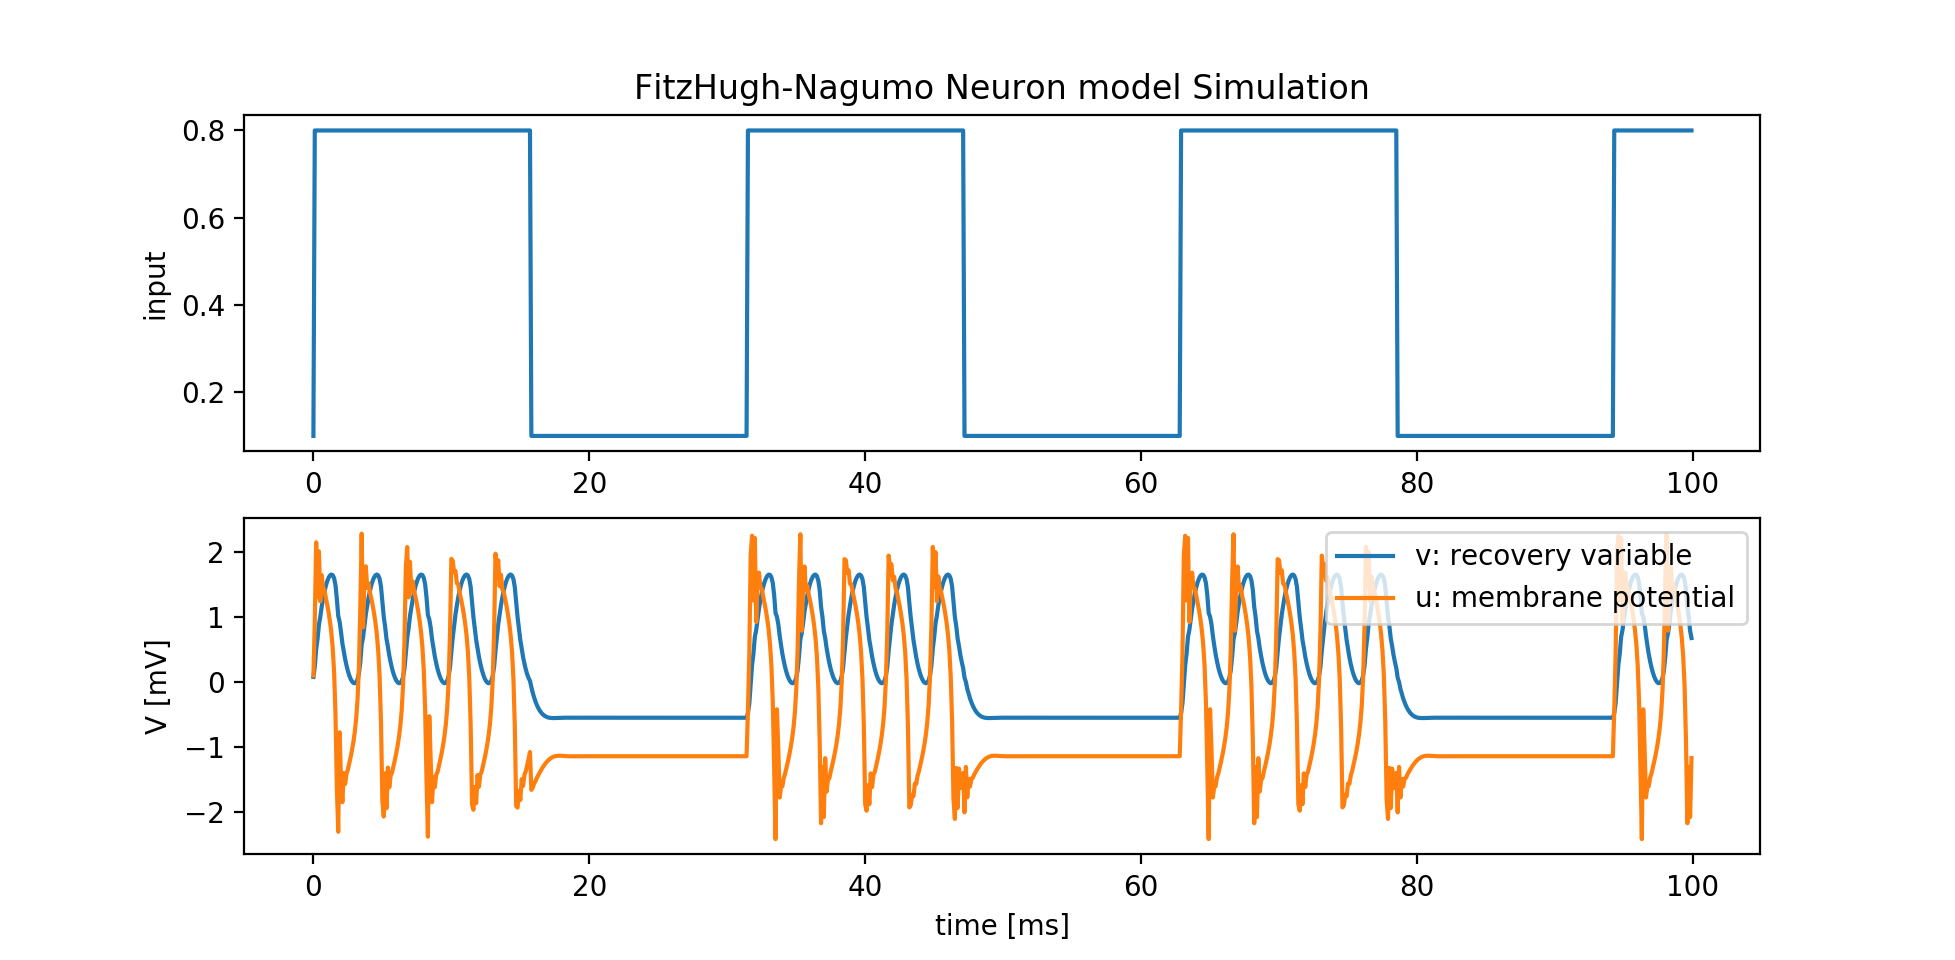
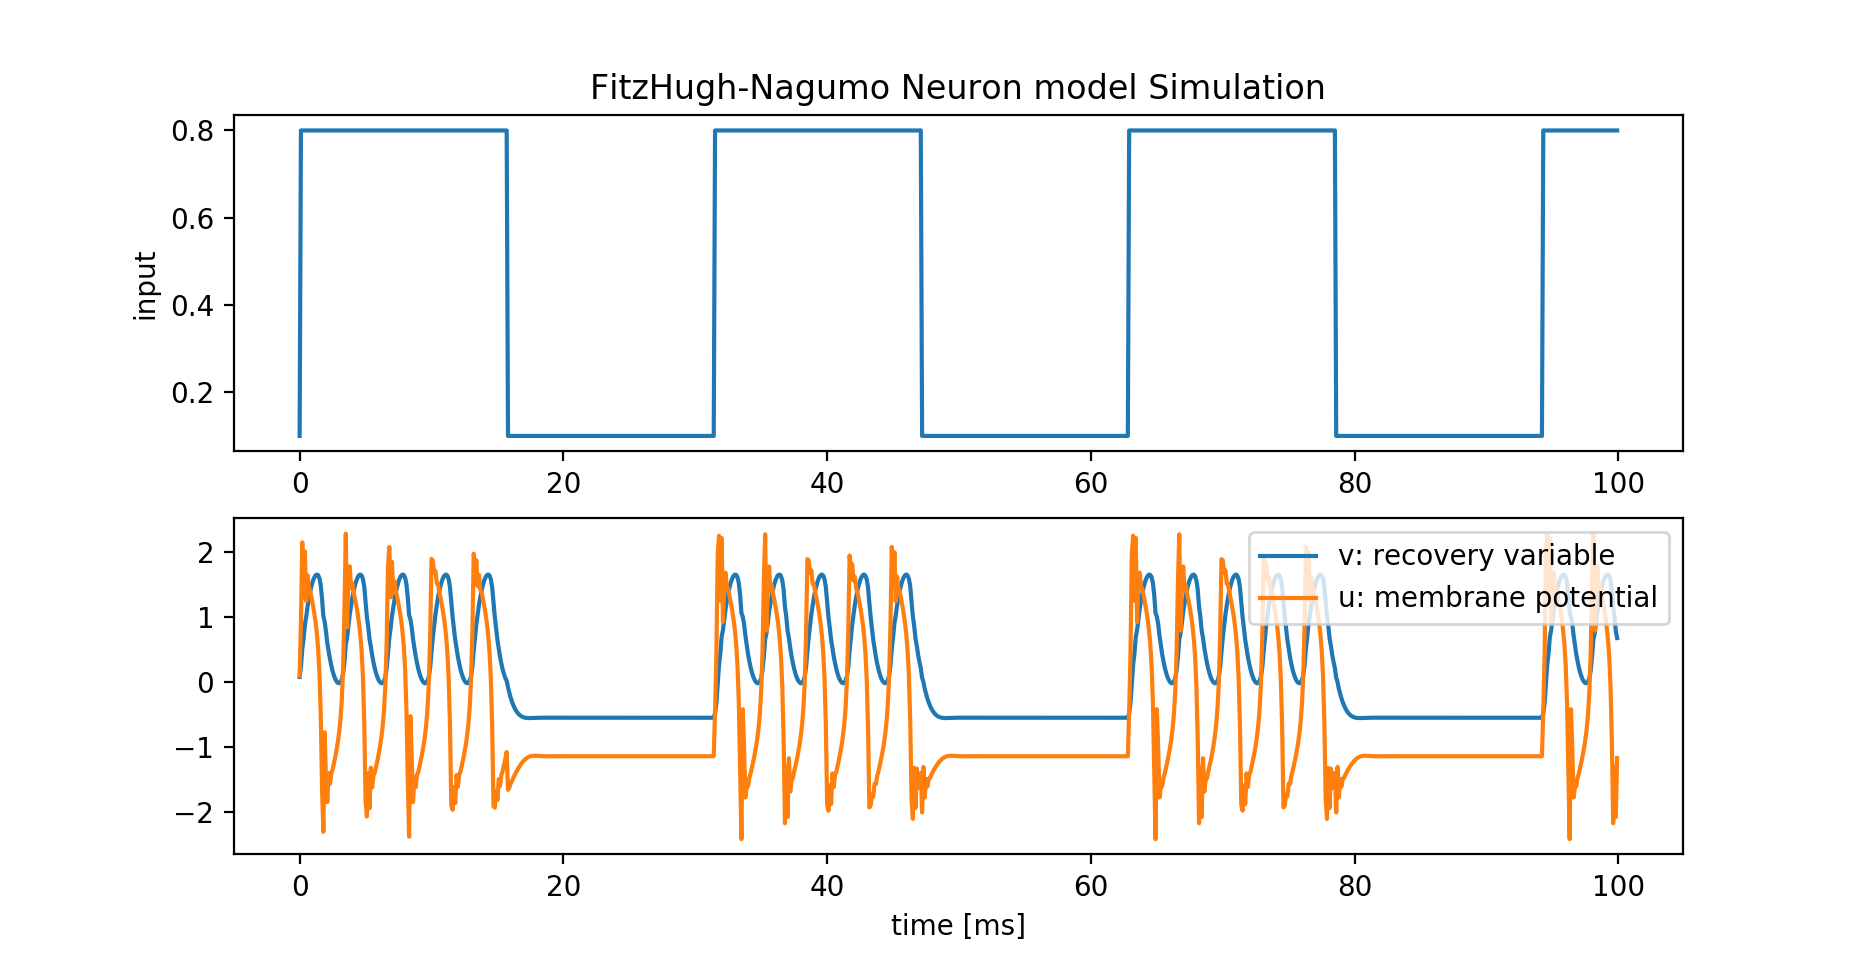
[fix] small fix on FitzHugh-Nagumo model

diff --git a/spine/fhn.py b/spine/fhn.py
@@ -7,7 +7,6 @@ import matplotlib.pyplot as plt
 
 
 class FitzHughNagumo:
-    """ Not implemented yet """
     def __init__(self, time, dt, a=0.7, b=0.8, c=10):
         """
         Initialize Neuron parameters
@@ -52,6 +51,25 @@ class FitzHughNagumo:
     def dv(self, u, v):
         return (u - self.b * v + self.a) * self.dt
 
+    def plot_v(self, save=False, filename='fhn.png', **kwargs):
+        """
+        plot membrane potential
+        :param save:
+        :param filename:
+        :param kwargs:
+        :return:
+        """
+        x = np.arange(0, self.time, self.dt)
+        plt.title('FitzHugh-Nagumo Neuron model Simulation')
+        plt.plot(x, self.monitor['v'], label='v: recovery variable')
+        plt.plot(x, self.monitor['u'], label='u: membrane potential')
+        plt.xlabel('time [ms]')
+        if not save:
+            plt.show()
+        else:
+            plt.savefig(filename, dpi=kwargs.get('dpi', 150))
+        plt.close()
+
 
 if __name__ == '__main__':
     # init experimental time and time-step
@@ -77,7 +95,6 @@ if __name__ == '__main__':
     plt.subplot(2, 1, 2)
     plt.plot(x, v, label='v: recovery variable')
     plt.plot(x, u, label='u: membrane potential')
-    plt.ylabel('V [mV]')
     plt.xlabel('time [ms]')
 
     plt.legend()
